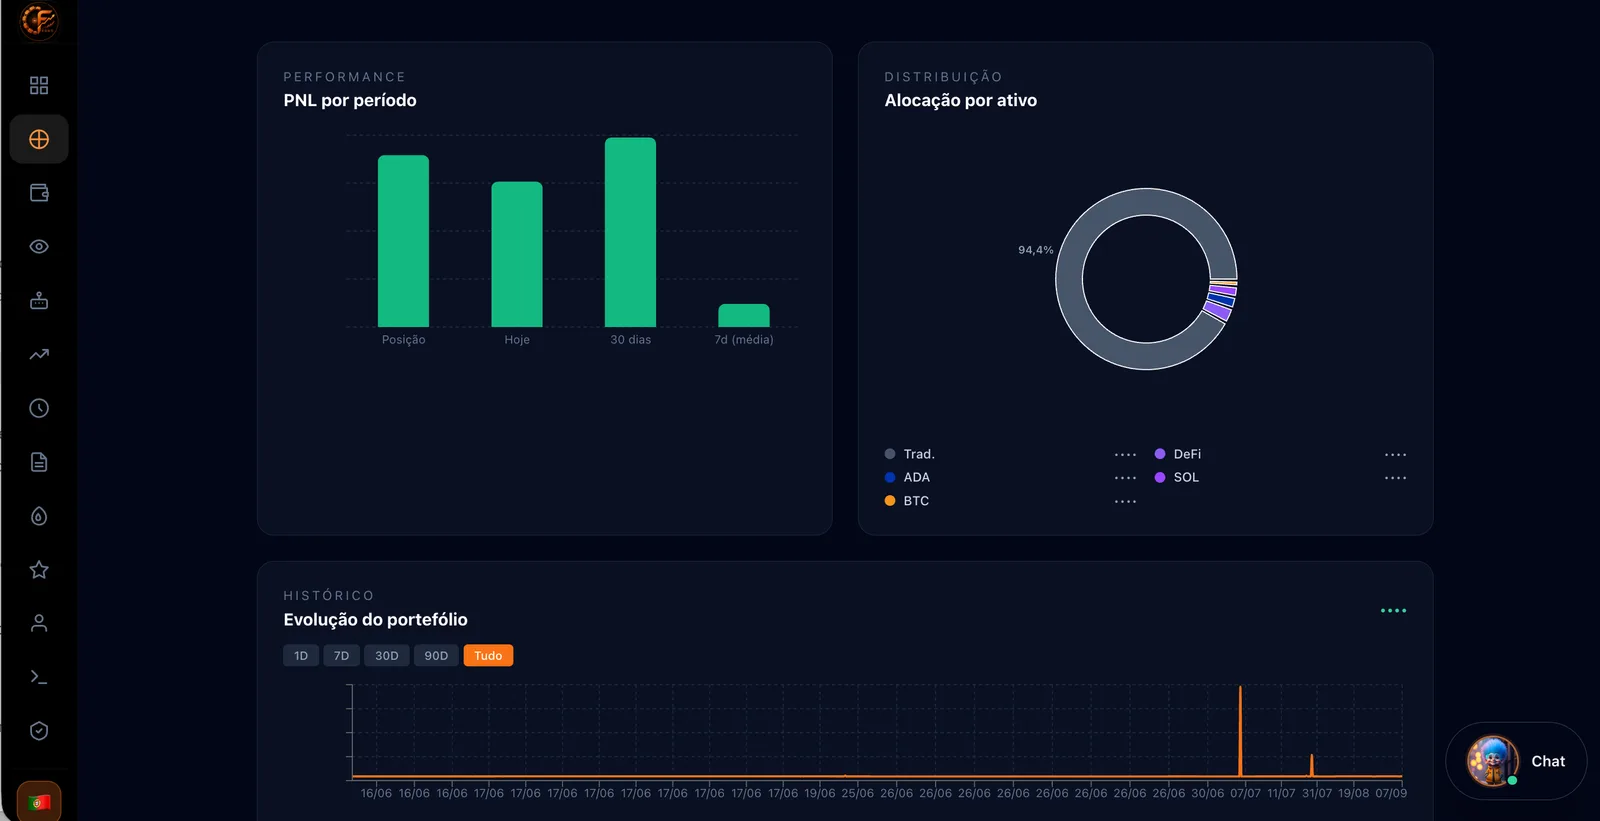
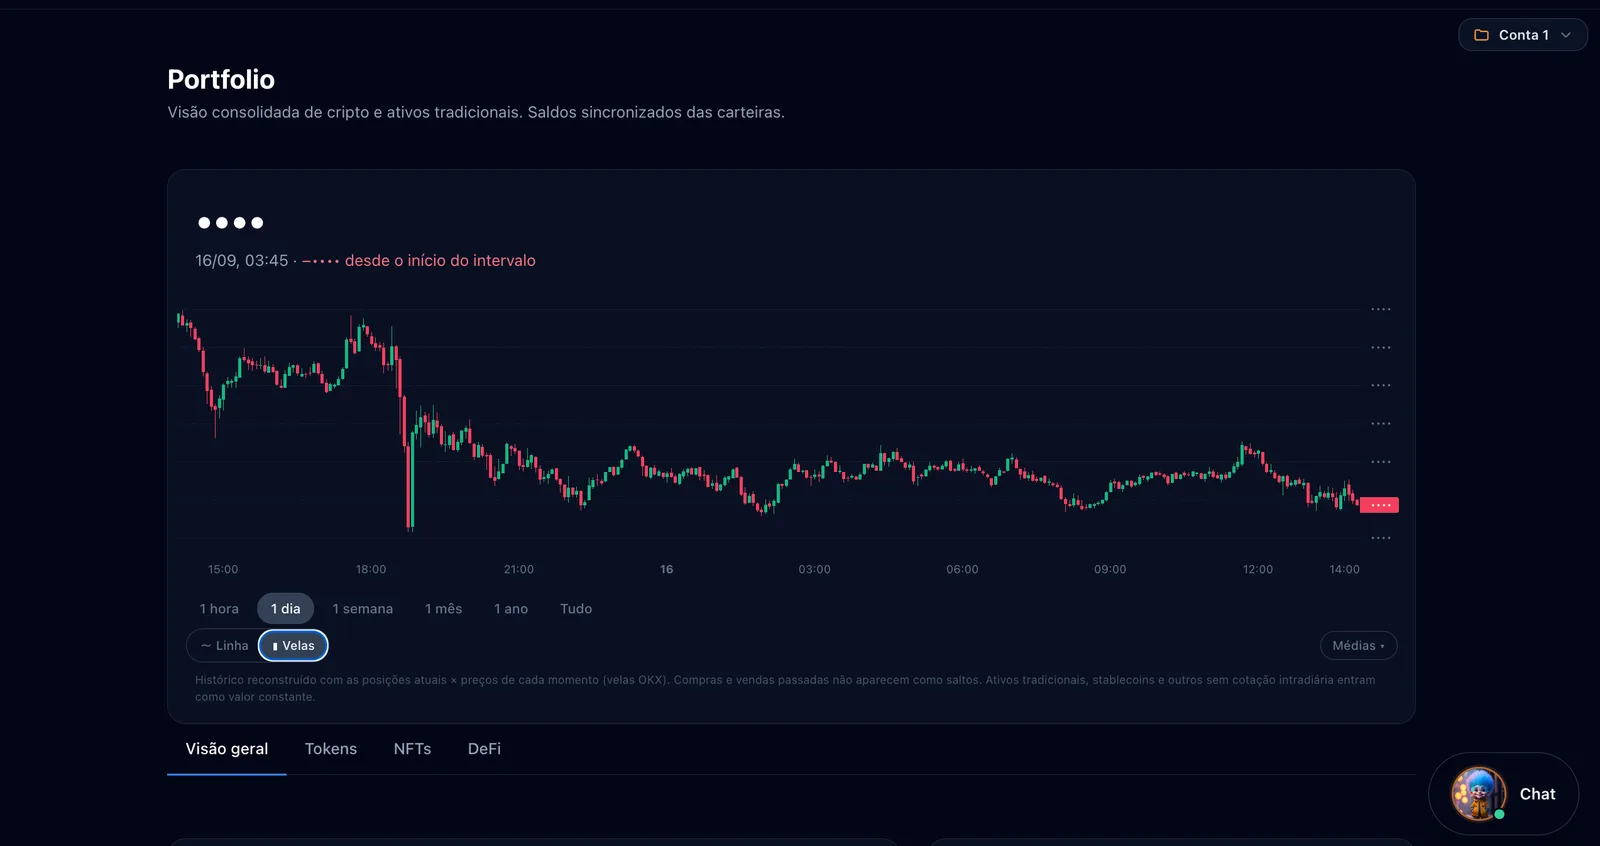
Screenshot do Portefolio atualizado (grafico com velas) na landing e no /como-funciona
Captura nova do Gustavo (16 set, saldos escondidos), com o grafico
reconstruido em velas, os intervalos e o seletor de medias. Convertida a
1600 px em WebP, faixa de tickers cortada no topo, dimensoes atualizadas no
codigo (sem salto de layout). Bullet e legenda do Portefolio passam a falar
das velas e medias moveis, 4 linguas. PNG originais na pasta privada, fora
do repositorio publico.

diff --git a/src/lib/i18n/messages/fr.ts b/src/lib/i18n/messages/fr.ts
@@ -2141,7 +2141,7 @@ export const fr: Record<TranslationKey, string> = {
     cf_t2_d: "Il réunit ce que vous détenez en crypto et en actifs traditionnels au même endroit, pour que vous voyiez où vous êtes réellement exposé. Au-delà des totaux, il fournit les indicateurs que la plupart des agrégateurs laissent de côté : risque, rendement ajusté et comparaison aux références habituelles. Vous pouvez aussi répartir le tout en plusieurs portefeuilles (comptes) et basculer entre eux ou voir le total combiné.",
     cf_t2_b1: "Score du portefeuille (0–100) et comparaison avec BTC, ETH, S&P 500 et l'or",
     cf_t2_b2: "ROI, CAGR, Sharpe, perte maximale et volatilité annualisée",
-    cf_t2_b3: "Simulateur de scénarios et export PDF, à conserver ou à partager",
+    cf_t2_b3: "Graphique en bougies avec moyennes mobiles sur toute période, simulateur de scénarios et export PDF",
     cf_t3_t: "Portefeuilles — vous connectez une fois, sans jamais confier vos clés",
     cf_t3_d: "Vous collez l'adresse publique ou connectez le portefeuille, et nous lisons la blockchain pour vous. Nous ne demandons jamais votre clé privée ni votre phrase de récupération, et l'application ne peut rien signer — si vous voulez partir, il suffit de retirer l'adresse.",
     cf_t3_b1: "Bitcoin, Ethereum et 15 réseaux EVM, Solana et Cardano — 19 réseaux au total",
@@ -2177,7 +2177,7 @@ export const fr: Record<TranslationKey, string> = {
     lp_shot_dash_t: "Votre centre de commande",
     lp_shot_dash_d: "PNL en temps réel, blocs Bitcoin en direct et marchés crypto + traditionnels (S&P 500, or, actions) en un coup d'œil.",
     lp_shot_pf_t: "Tout votre patrimoine, consolidé",
-    lp_shot_pf_d: "Crypto et actifs traditionnels réunis — allocation, évolution et PNL dès le premier jour.",
+    lp_shot_pf_d: "Crypto et actifs traditionnels réunis — bougies, répartition et PNL dès le premier jour.",
     lp_shot_mkt_t: "Marchés en temps réel",
     lp_shot_mkt_d: "Prix, tendances sur 7 jours, Fear & Greed et graphiques TradingView — crypto et marchés traditionnels.",
     lp_shot_wal_t: "Connectez des portefeuilles en quelques secondes",

diff --git a/src/lib/i18n/messages/es.ts b/src/lib/i18n/messages/es.ts
@@ -2141,7 +2141,7 @@ export const es: Record<TranslationKey, string> = {
     cf_t2_d: "Reúne lo que tienes en cripto y lo que tienes en activos tradicionales en el mismo sitio, para que veas dónde estás realmente expuesto. Más allá de los totales, te da las métricas que suelen faltar en otros agregadores: riesgo, rentabilidad ajustada y comparación con las referencias habituales. Además, puedes separar todo en varias carteras (cuentas) y alternar entre ellas o ver el total combinado.",
     cf_t2_b1: "Puntuación de la cartera (0–100) y comparación con BTC, ETH, S&P 500 y oro",
     cf_t2_b2: "ROI, CAGR, Sharpe, caída máxima y volatilidad anualizada",
-    cf_t2_b3: "Simulador de escenarios y exportación en PDF, para guardar o compartir",
+    cf_t2_b3: "Gráfico de velas con medias móviles en cualquier intervalo, simulador de escenarios y exportación en PDF",
     cf_t3_t: "Carteras — conectas una vez y nunca entregas las claves",
     cf_t3_d: "Pegas la dirección pública o conectas la cartera, y a partir de ahí leemos la blockchain por ti. Nunca te pedimos la clave privada ni la frase semilla, y la app no puede firmar nada: si algún día quieres salir, basta con eliminar la dirección.",
     cf_t3_b1: "Bitcoin, Ethereum y 15 redes EVM, Solana y Cardano — 19 redes en total",
@@ -2177,7 +2177,7 @@ export const es: Record<TranslationKey, string> = {
     lp_shot_dash_t: "Tu centro de control",
     lp_shot_dash_d: "PNL en tiempo real, bloques de Bitcoin en vivo y mercado cripto + tradicional (S&P 500, oro, acciones) de un vistazo.",
     lp_shot_pf_t: "Todo tu patrimonio, consolidado",
-    lp_shot_pf_d: "Cripto y activos tradicionales juntos: distribución, evolución y PNL desde el primer día.",
+    lp_shot_pf_d: "Cripto y activos tradicionales juntos: velas, distribución y PNL desde el primer día.",
     lp_shot_mkt_t: "Mercado en tiempo real",
     lp_shot_mkt_d: "Precios, tendencia a 7 días, Fear & Greed y gráficos TradingView — cripto y mercados tradicionales.",
     lp_shot_wal_t: "Conecta carteras en segundos",

diff --git a/src/lib/i18n/messages/en.ts b/src/lib/i18n/messages/en.ts
@@ -2141,7 +2141,7 @@ export const en: Record<TranslationKey, string> = {
     cf_t2_d: "It brings what you hold in crypto together with what you hold in traditional assets, so you can see where you are actually exposed. Beyond the totals, it gives you the metrics most trackers leave out: risk, adjusted return and how you compare to the usual benchmarks. You can also split everything into several portfolios (accounts) and switch between them or see the combined total.",
     cf_t2_b1: "Portfolio score (0–100) and comparison against BTC, ETH, the S&P 500 and gold",
     cf_t2_b2: "ROI, CAGR, Sharpe, maximum drawdown and annualised volatility",
-    cf_t2_b3: "Scenario simulator and PDF export, to keep or to share",
+    cf_t2_b3: "Candlestick chart with moving averages on any range, scenario simulator and PDF export",
     cf_t3_t: "Wallets — connect once, never hand over your keys",
     cf_t3_d: "You paste the public address or connect the wallet, and from there we read the blockchain for you. We never ask for your private key or seed phrase, and the app cannot sign anything — if you ever want out, removing the address is enough.",
     cf_t3_b1: "Bitcoin, Ethereum and 15 EVM networks, Solana and Cardano — 19 networks in total",
@@ -2177,7 +2177,7 @@ export const en: Record<TranslationKey, string> = {
     lp_shot_dash_t: "Your command center",
     lp_shot_dash_d: "Real-time PNL, live Bitcoin blocks and crypto + traditional markets (S&P 500, gold, stocks) at a glance.",
     lp_shot_pf_t: "Your whole net worth, consolidated",
-    lp_shot_pf_d: "Crypto and traditional assets together — allocation, evolution and PNL from day one.",
+    lp_shot_pf_d: "Crypto and traditional assets together — candles, allocation and PNL from day one.",
     lp_shot_mkt_t: "Real-time markets",
     lp_shot_mkt_d: "Prices, 7-day trends, Fear & Greed and TradingView charts — crypto and traditional markets.",
     lp_shot_wal_t: "Connect wallets in seconds",

diff --git a/src/lib/i18n/messages/pt.ts b/src/lib/i18n/messages/pt.ts
@@ -2156,7 +2156,7 @@ export const pt = {
     cf_t2_d: "Junta o que tens em cripto e o que tens em ativos tradicionais no mesmo sítio, para saberes onde estás realmente exposto. Além dos totais, dá-te as métricas que costumam ficar de fora dos agregadores: risco, retorno ajustado e comparação com as referências do costume. Podes ainda separar tudo em vários portefólios (contas) e alternar entre eles ou ver o total combinado.",
     cf_t2_b1: "Score do portefólio (0–100) e comparação com BTC, ETH, S&P 500 e ouro",
     cf_t2_b2: "ROI, CAGR, Sharpe, queda máxima e volatilidade anualizada",
-    cf_t2_b3: "Simulador de cenários e exportação em PDF, para guardares ou partilhares",
+    cf_t2_b3: "Gráfico com velas e médias móveis em qualquer intervalo, simulador de cenários e exportação em PDF",
     cf_t3_t: "Carteiras — ligas uma vez, nunca entregas as chaves",
     cf_t3_d: "Colas o endereço público ou ligas a carteira, e a partir daí lemos a blockchain por ti. Nunca te pedimos a chave privada nem a seed phrase, e a app não consegue assinar nada — se um dia quiseres sair, basta removeres o endereço.",
     cf_t3_b1: "Bitcoin, Ethereum e 15 redes EVM, Solana e Cardano — 19 redes ao todo",
@@ -2192,7 +2192,7 @@ export const pt = {
     lp_shot_dash_t: "O teu centro de comando",
     lp_shot_dash_d: "PNL em tempo real, blocos Bitcoin ao vivo e mercado cripto + tradicional (S&P 500, ouro, ações) num relance.",
     lp_shot_pf_t: "Todo o teu património, consolidado",
-    lp_shot_pf_d: "Cripto e ativos tradicionais juntos — distribuição, evolução e PNL desde o primeiro dia.",
+    lp_shot_pf_d: "Cripto e ativos tradicionais juntos — velas, distribuição e PNL desde o primeiro dia.",
     lp_shot_mkt_t: "Mercado em tempo real",
     lp_shot_mkt_d: "Preços, tendência a 7 dias, Fear & Greed e gráficos TradingView — cripto e mercados tradicionais.",
     lp_shot_wal_t: "Liga carteiras em segundos",

diff --git a/src/components/pages/HowItWorks.tsx b/src/components/pages/HowItWorks.tsx
@@ -27,7 +27,7 @@ const CARDS: { icon: string; tKey: TranslationKey; dKey: TranslationKey }[] = [
 // em que foram criadas, por isso não têm de coincidir.
 const TOOLS: { img: string; w: number; h: number; t: TranslationKey; d: TranslationKey; b: TranslationKey[]; plan?: "pro" | "premium" }[] = [
   { img: "/screenshots/dashboard.webp", w: 1600, h: 863,   t: "cf_t1_t", d: "cf_t1_d", b: ["cf_t1_b1", "cf_t1_b2", "cf_t1_b3"] },
-  { img: "/screenshots/portfolio.webp", w: 1600, h: 821,   t: "cf_t2_t", d: "cf_t2_d", b: ["cf_t2_b1", "cf_t2_b2", "cf_t2_b3"] },
+  { img: "/screenshots/portfolio.webp", w: 1600, h: 846,   t: "cf_t2_t", d: "cf_t2_d", b: ["cf_t2_b1", "cf_t2_b2", "cf_t2_b3"] },
   { img: "/screenshots/wallets.webp", w: 1600, h: 1096,     t: "cf_t3_t", d: "cf_t3_d", b: ["cf_t3_b1", "cf_t3_b2", "cf_t3_b3"] },
   { img: "/screenshots/market.webp", w: 1600, h: 827,      t: "cf_t4_t", d: "cf_t4_d", b: ["cf_t4_b1", "cf_t4_b2", "cf_t4_b3"] },
   { img: "/screenshots/smart-money.webp", w: 1600, h: 817, t: "cf_t7_t", d: "cf_t7_d", b: ["cf_t7_b1", "cf_t7_b2", "cf_t7_b3"] },

diff --git a/src/components/pages/Landing.tsx b/src/components/pages/Landing.tsx
@@ -106,7 +106,7 @@ const COMPARISON = [
 // WebP a 1600px (≈30 KB cada, antes PNG de 300–500 KB); width/height evitam CLS.
 const SCREENSHOTS = [
   { src: "/screenshots/dashboard.webp", w: 1600, h: 863, t: "lp_shot_dash_t", d: "lp_shot_dash_d" },
-  { src: "/screenshots/portfolio.webp", w: 1600, h: 821, t: "lp_shot_pf_t", d: "lp_shot_pf_d" },
+  { src: "/screenshots/portfolio.webp", w: 1600, h: 846, t: "lp_shot_pf_t", d: "lp_shot_pf_d" },
   { src: "/screenshots/market.webp", w: 1600, h: 827, t: "lp_shot_mkt_t", d: "lp_shot_mkt_d" },
   { src: "/screenshots/wallets.webp", w: 1600, h: 1096, t: "lp_shot_wal_t", d: "lp_shot_wal_d" },
 ] as const;
